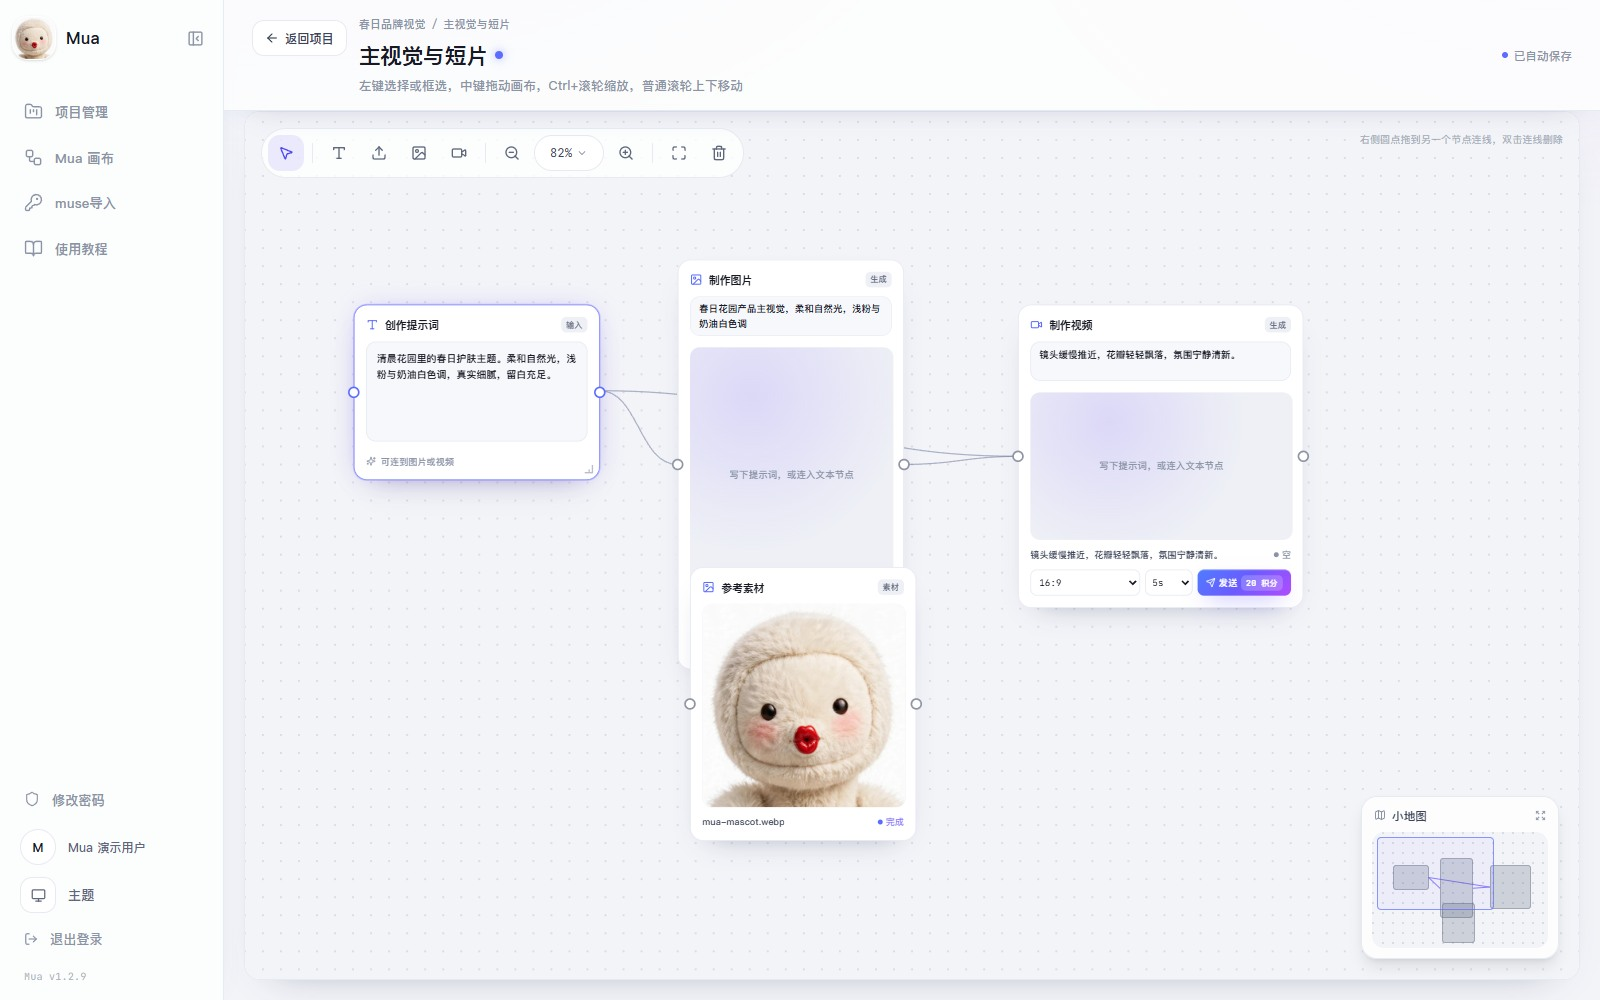
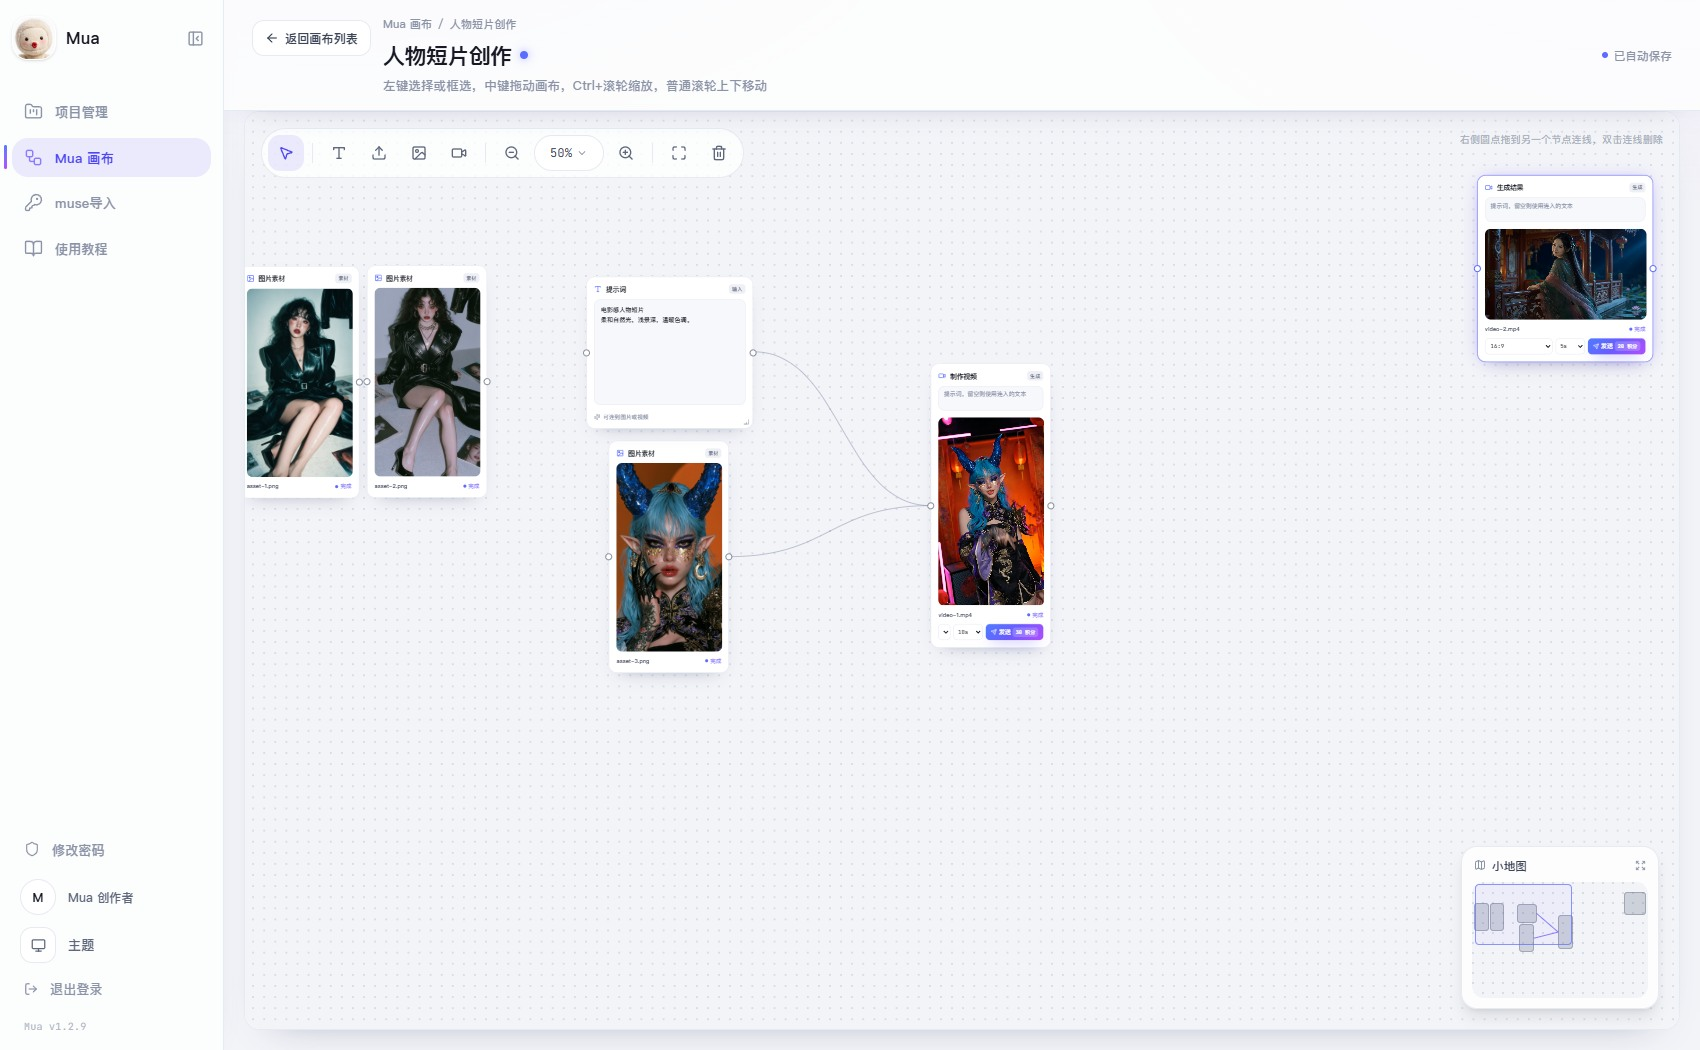
docs: use real canvas screenshot

diff --git a/README.md b/README.md
@@ -23,7 +23,7 @@
 
 ## 产品界面截图
 
-以下为 Mua v1.2.9 当前界面的浏览器截图。截图里的项目和账号均为演示数据，账号名称、邮箱、账号 ID、Cookie 与会话资料均未使用真实信息。
+以下为 Mua v1.2.9 当前界面的浏览器截图。项目管理、项目画布列表和账号页面使用演示数据。Mua 画布截图取自实际创作画布，并使用真实生成的图片与视频；公开展示前已将提示词、项目名称、媒体文件名和个人资料替换为通用内容。
 
 <table>
   <tr>
@@ -38,7 +38,7 @@
   </tr>
   <tr>
     <td width="50%" align="center">
-      <img src="docs/prototypes/canvas.jpg" alt="Mua 节点画布截图，使用演示数据" width="100%"><br>
+      <img src="docs/prototypes/canvas.jpg" alt="Mua 真实创作画布截图，使用实际生成素材并隐藏个人信息" width="100%"><br>
       <b>Mua 画布</b> · 图片、视频、提示词节点与连线工作流
     </td>
     <td width="50%" align="center">
